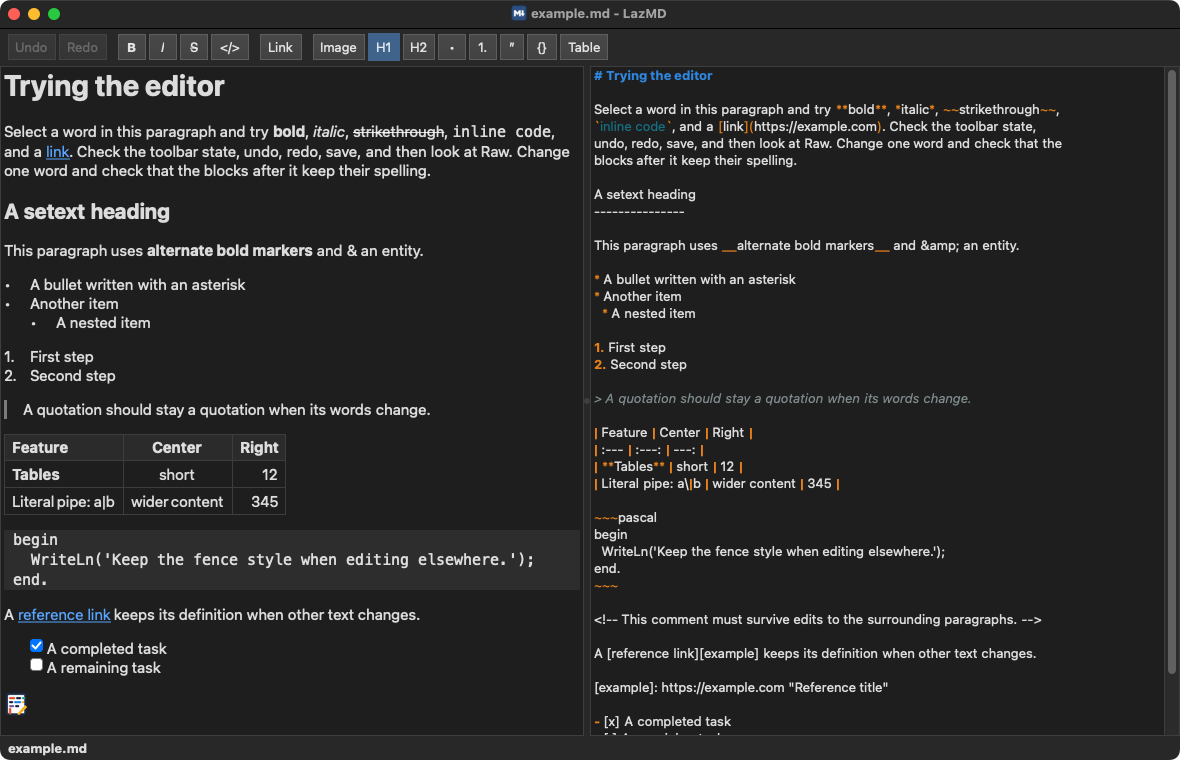
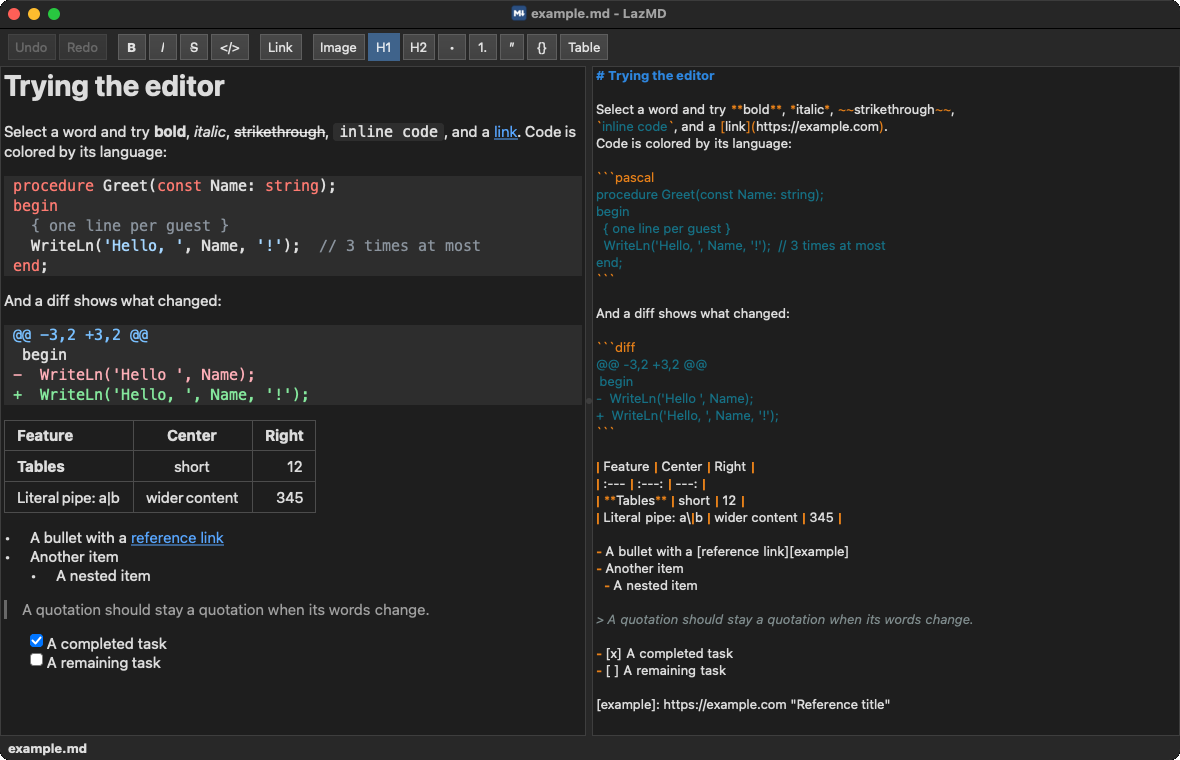
Code blocks colored; new screenshots
LazMD is built against LazInk's rich editor, which now colors a code
block by its fence's language and a diff block by its added and removed
lines.  The README says so, and both screenshots show it: a Pascal block
and a diff, side by side, on Linux and on the Mac in dark mode.

diff --git a/README.md b/README.md
@@ -12,7 +12,8 @@ One document per window, in three modes from the **Mode** menu:
   quotes, code blocks, tables and images. Task checkboxes toggle with a
   click. Ctrl+click follows a link: web links open in the browser, links to
   other Markdown files open in LazMD. Right-click, **Go to source**, shows
-  the same spot in Raw.
+  the same spot in Raw. Code blocks are colored by their language, and a
+  `diff` block shows what was added and what was taken out.
 - **Raw** (Ctrl+2) — the Markdown source, with syntax coloring.
 - **Side by side** (Ctrl+3) — both at once, each following the other's
   edits.
